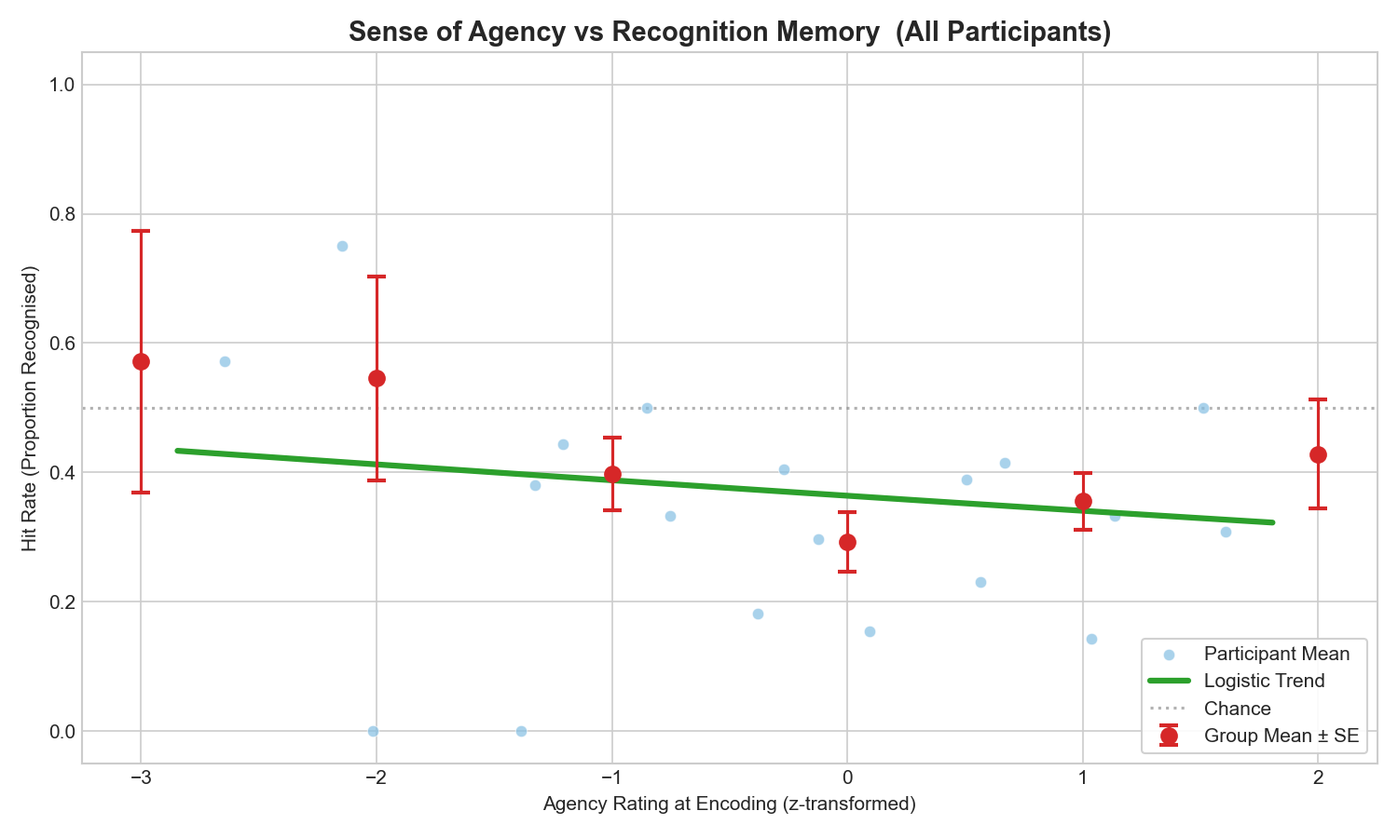
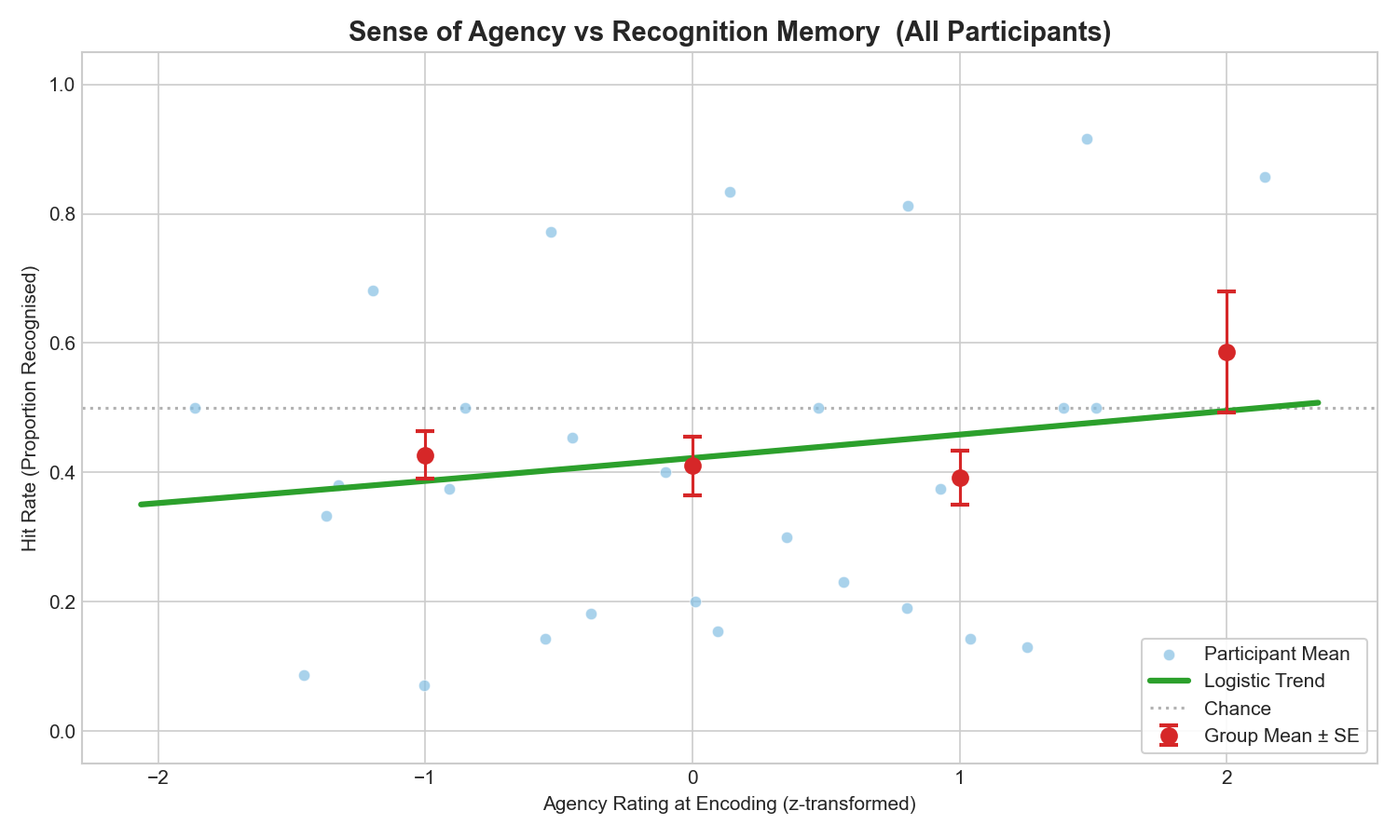
-

diff --git a/CDmem/analyses/behavioral/CDmem_analyses_final.py b/CDmem/analyses/behavioral/CDmem_analyses_final.py
@@ -46,7 +46,8 @@ def write_report(text):
     with open(REPORT_FILE, "a", encoding="utf-8") as f:
         f.write(text + "\n")
 
-PARTICIPANT_FILTER = [1,2,3,4]
+PARTICIPANT_FILTER = [4,5,6,7]
+# [7]
 TIMEOUT_THRESHOLD = 0.50
 ACCURACY_SD_THRESHOLD = 2.5
 RT_SD_MULTIPLIER = 3.0

diff --git a/CDmem/analyses/behavioral/CDmem_final_output/Comprehensive_Report.md b/CDmem/analyses/behavioral/CDmem_final_output/Comprehensive_Report.md
@@ -2,27 +2,25 @@
 
 ## Data Loading & Preprocessing
 
-[WARNING] Could not load CDmem_1_1.csv: Error tokenizing data. C error: Expected 1 fields in line 129, saw 6
-
 - Excluded for timeout: []
 - Excluded for accuracy outliers: []
 - Excluded for calibration failure: []
-- Total recognition trials excluded for RT outliers: 34
-- Final N participants: 3
+- Total recognition trials excluded for RT outliers: 41
+- Final N participants: 4
 
 ## Sanity Checks
 
 **Sanity Check: Agency Ratings (High vs Low)**
 We expect agency ratings to be significantly higher in the 'high' control condition.
-- High Mean (SD): 4.872 (0.187)
-- Low Mean (SD): 4.011 (1.435)
-- Result: *t*(2) = 0.997, *p* = 0.4238, Cohen's *d* = 0.842
+- High Mean (SD): 5.129 (0.611)
+- Low Mean (SD): 2.783 (0.627)
+- Result: *t*(3) = 3.980, *p* = 0.0284, Cohen's *d* = 3.790
 
 **Sanity Check: Detection Accuracy (High vs Low)**
 We expect detection accuracy to be significantly higher in the 'high' control condition.
-- High Mean (SD): 0.867 (0.120)
-- Low Mean (SD): 0.761 (0.228)
-- Result: *t*(2) = 0.984, *p* = 0.4289, Cohen's *d* = 0.580
+- High Mean (SD): 0.867 (0.131)
+- Low Mean (SD): 0.592 (0.091)
+- Result: *t*(3) = 7.318, *p* = 0.0053, Cohen's *d* = 2.446
 
 ## ANALYSES
 
@@ -30,28 +28,29 @@ We expect detection accuracy to be significantly higher in the 'high' control co
 
 **1A) Descriptive d' Summary (above-chance check)**
 **Participant-level d' values:**
-  - P2: d' = 0.882
-  - P3: d' = 1.027
   - P4: d' = 0.752
+  - P5: d' = 1.884
+  - P6: d' = 0.591
+  - P7: d' = 0.476
 
-- Mean d' = 0.887 (SD = 0.137)
+- Mean d' = 0.926 (SD = 0.649)
 - All above chance (d' > 0): True
 
-- One-sample t-test against chance: t(2) = 11.185, p = 0.0079
+- One-sample t-test against chance: t(3) = 2.853, p = 0.0649
 
 **1B) Binomial GLMM on OLD ITEMS ONLY: said_old ~ C(control_level) * C(item_type) + (1 | participant)**
 **Fixed Effects:**
 shape: (4, 8)
-┌─────────────────────────────┬───────────┬───────────┬───────────┬───────────┬────────────┬─────┬────────────┐
-│ term                        ┆ estimate  ┆ std_error ┆ conf_low  ┆ conf_high ┆ z_stat     ┆ df  ┆ p_value    │
-│ ---                         ┆ ---       ┆ ---       ┆ ---       ┆ ---       ┆ ---        ┆ --- ┆ ---        │
-│ str                         ┆ f64       ┆ f64       ┆ f64       ┆ f64       ┆ f64        ┆ f64 ┆ f64        │
-╞═════════════════════════════╪═══════════╪═══════════╪═══════════╪═══════════╪════════════╪═════╪════════════╡
-│ (Intercept)                 ┆ -0.871821 ┆ 0.084438  ┆ -1.037316 ┆ -0.706326 ┆ -10.325016 ┆ inf ┆ 5.4310e-25 │
-│ control_level_c             ┆ 0.208312  ┆ 0.168876  ┆ -0.122678 ┆ 0.539302  ┆ 1.233526   ┆ inf ┆ 0.217379   │
-│ item_type_c                 ┆ 0.627936  ┆ 0.168876  ┆ 0.296946  ┆ 0.958926  ┆ 3.718335   ┆ inf ┆ 0.000201   │
-│ control_level_c:item_type_c ┆ 0.192928  ┆ 0.337751  ┆ -0.469052 ┆ 0.854908  ┆ 0.571214   ┆ inf ┆ 0.567854   │
-└─────────────────────────────┴───────────┴───────────┴───────────┴───────────┴────────────┴─────┴────────────┘
+┌─────────────────────────────┬───────────┬───────────┬───────────┬───────────┬───────────┬─────┬──────────┐
+│ term                        ┆ estimate  ┆ std_error ┆ conf_low  ┆ conf_high ┆ z_stat    ┆ df  ┆ p_value  │
+│ ---                         ┆ ---       ┆ ---       ┆ ---       ┆ ---       ┆ ---       ┆ --- ┆ ---      │
+│ str                         ┆ f64       ┆ f64       ┆ f64       ┆ f64       ┆ f64       ┆ f64 ┆ f64      │
+╞═════════════════════════════╪═══════════╪═══════════╪═══════════╪═══════════╪═══════════╪═════╪══════════╡
+│ (Intercept)                 ┆ -0.538192 ┆ 0.483899  ┆ -1.486616 ┆ 0.410232  ┆ -1.112199 ┆ inf ┆ 0.266053 │
+│ control_level_c             ┆ -0.009408 ┆ 0.14886   ┆ -0.301168 ┆ 0.282351  ┆ -0.063202 ┆ inf ┆ 0.949605 │
+│ item_type_c                 ┆ 0.378286  ┆ 0.149221  ┆ 0.085817  ┆ 0.670754  ┆ 2.535062  ┆ inf ┆ 0.011243 │
+│ control_level_c:item_type_c ┆ 0.9472    ┆ 0.298873  ┆ 0.36142   ┆ 1.53298   ┆ 3.169239  ┆ inf ┆ 0.001528 │
+└─────────────────────────────┴───────────┴───────────┴───────────┴───────────┴───────────┴─────┴──────────┘
 
 **Random Effects Variance Components (ranef_var):**
 shape: (1, 5)
@@ -60,23 +59,24 @@ shape: (1, 5)
 │ ---         ┆ ---             ┆ ---      ┆ ---      ┆ ---       │
 │ str         ┆ str             ┆ f64      ┆ f64      ┆ f64       │
 ╞═════════════╪═════════════════╪══════════╪══════════╪═══════════╡
-│ participant ┆ sd__(Intercept) ┆ 0.0      ┆ null     ┆ null      │
+│ participant ┆ sd__(Intercept) ┆ 0.955854 ┆ null     ┆ null      │
 └─────────────┴─────────────────┴──────────┴──────────┴───────────┘
 
 **Random Effects by Participant (ranef):**
-shape: (3, 2)
+shape: (4, 2)
 ┌───────┬─────────────┐
 │ level ┆ (Intercept) │
 │ ---   ┆ ---         │
 │ str   ┆ f64         │
 ╞═══════╪═════════════╡
-│ 2     ┆ 0.0         │
-│ 3     ┆ 0.0         │
-│ 4     ┆ 0.0         │
+│ 4     ┆ -0.300555   │
+│ 5     ┆ 1.483119    │
+│ 6     ┆ -1.111681   │
+│ 7     ┆ -0.059488   │
 └───────┴─────────────┘
 
 > **APA 7 Reporting Example:**
-> A binomial generalized linear mixed model on target trials revealed that Control Level predicted memory hits, $\beta$ = 0.21, *SE* = 0.17, *z* = 1.23, *p* = 0.217.
+> A binomial generalized linear mixed model on target trials revealed that Control Level predicted memory hits, $\beta$ = -0.01, *SE* = 0.15, *z* = -0.06, *p* = 0.950.
 
 **1C) Gaussian LMM on OLD ITEMS ONLY: log_mem_rt ~ C(control_level) * C(item_type) + (1 | participant)**
 **Fixed Effects:**
@@ -86,10 +86,10 @@ shape: (4, 8)
 │ ---                         ┆ ---       ┆ ---       ┆ ---       ┆ ---       ┆ ---       ┆ ---        ┆ ---      │
 │ str                         ┆ f64       ┆ f64       ┆ f64       ┆ f64       ┆ f64       ┆ f64        ┆ f64      │
 ╞═════════════════════════════╪═══════════╪═══════════╪═══════════╪═══════════╪═══════════╪════════════╪══════════╡
-│ (Intercept)                 ┆ 0.166814  ┆ 0.033304  ┆ 0.027597  ┆ 0.30603   ┆ 5.00882   ┆ 2.06246    ┆ 0.035323 │
-│ control_level_c             ┆ -0.034804 ┆ 0.057815  ┆ -0.148792 ┆ 0.079184  ┆ -0.601991 ┆ 204.997054 ┆ 0.547845 │
-│ item_type_c                 ┆ -0.068005 ┆ 0.057948  ┆ -0.182267 ┆ 0.046258  ┆ -1.173547 ┆ 201.356053 ┆ 0.241963 │
-│ control_level_c:item_type_c ┆ 0.139039  ┆ 0.11565   ┆ -0.088978 ┆ 0.367056  ┆ 1.202234  ┆ 204.990255 ┆ 0.23066  │
+│ (Intercept)                 ┆ 0.094627  ┆ 0.16882   ┆ -0.445586 ┆ 0.634839  ┆ 0.560519  ┆ 2.97125    ┆ 0.614611 │
+│ control_level_c             ┆ -0.048337 ┆ 0.041254  ┆ -0.129468 ┆ 0.032794  ┆ -1.171698 ┆ 356.980703 ┆ 0.2421   │
+│ item_type_c                 ┆ -0.026122 ┆ 0.041241  ┆ -0.107228 ┆ 0.054985  ┆ -0.633383 ┆ 356.972041 ┆ 0.526889 │
+│ control_level_c:item_type_c ┆ -0.02503  ┆ 0.082579  ┆ -0.187433 ┆ 0.137373  ┆ -0.303097 ┆ 356.999931 ┆ 0.761992 │
 └─────────────────────────────┴───────────┴───────────┴───────────┴───────────┴───────────┴────────────┴──────────┘
 
 **Random Effects Variance Components (ranef_var):**
@@ -99,24 +99,25 @@ shape: (2, 5)
 │ ---         ┆ ---             ┆ ---      ┆ ---      ┆ ---       │
 │ str         ┆ str             ┆ f64      ┆ f64      ┆ f64       │
 ╞═════════════╪═════════════════╪══════════╪══════════╪═══════════╡
-│ participant ┆ sd__(Intercept) ┆ 0.028764 ┆ null     ┆ null      │
-│ Residual    ┆ sd__Observation ┆ 0.405687 ┆ null     ┆ null      │
+│ participant ┆ sd__(Intercept) ┆ 0.334315 ┆ null     ┆ null      │
+│ Residual    ┆ sd__Observation ┆ 0.388923 ┆ null     ┆ null      │
 └─────────────┴─────────────────┴──────────┴──────────┴───────────┘
 
 **Random Effects by Participant (ranef):**
-shape: (3, 2)
+shape: (4, 2)
 ┌───────┬─────────────┐
 │ level ┆ (Intercept) │
 │ ---   ┆ ---         │
 │ str   ┆ f64         │
 ╞═══════╪═════════════╡
-│ 2     ┆ -0.00016    │
-│ 3     ┆ -0.014421   │
-│ 4     ┆ 0.014581    │
+│ 4     ┆ 0.131435    │
+│ 5     ┆ -0.205247   │
+│ 6     ┆ 0.402098    │
+│ 7     ┆ -0.328286   │
 └───────┴─────────────┘
 
 > **APA 7 Reporting Example:**
-> A linear mixed model on log-transformed reaction times for correct old items showed an effect of Control Level, $\beta$ = -0.03, *SE* = 0.06, *t* = -0.60, *p* = 0.548.
+> A linear mixed model on log-transformed reaction times for correct old items showed an effect of Control Level, $\beta$ = -0.05, *SE* = 0.04, *t* = -1.17, *p* = 0.242.
 
 ### 2) Does this memory effect depend on the conscious detection of control?
 
@@ -130,50 +131,51 @@ shape: (4, 8)
 │ ---                             ┆ ---       ┆ ---       ┆ ---       ┆ ---       ┆ ---       ┆ --- ┆ ---      │
 │ str                             ┆ f64       ┆ f64       ┆ f64       ┆ f64       ┆ f64       ┆ f64 ┆ f64      │
 ╞═════════════════════════════════╪═══════════╪═══════════╪═══════════╪═══════════╪═══════════╪═════╪══════════╡
-│ (Intercept)                     ┆ -0.554613 ┆ 0.14966   ┆ -0.847942 ┆ -0.261284 ┆ -3.705812 ┆ inf ┆ 0.000211 │
-│ detection_accuracy_c            ┆ 0.053924  ┆ 0.299321  ┆ -0.532734 ┆ 0.640582  ┆ 0.180155  ┆ inf ┆ 0.857031 │
-│ control_level_c                 ┆ 0.63707   ┆ 0.299321  ┆ 0.050412  ┆ 1.223728  ┆ 2.128386  ┆ inf ┆ 0.033305 │
-│ detection_accuracy_c:control_l… ┆ -1.052161 ┆ 0.598642  ┆ -2.225477 ┆ 0.121155  ┆ -1.75758  ┆ inf ┆ 0.078819 │
+│ (Intercept)                     ┆ -0.489872 ┆ 0.52459   ┆ -1.51805  ┆ 0.538306  ┆ -0.933818 ┆ inf ┆ 0.350398 │
+│ detection_accuracy_c            ┆ 0.515036  ┆ 0.290274  ┆ -0.053891 ┆ 1.083964  ┆ 1.774309  ┆ inf ┆ 0.076012 │
+│ control_level_c                 ┆ 0.24906   ┆ 0.287043  ┆ -0.313534 ┆ 0.811654  ┆ 0.867675  ┆ inf ┆ 0.385572 │
+│ detection_accuracy_c:control_l… ┆ 0.344392  ┆ 0.57181   ┆ -0.776335 ┆ 1.465119  ┆ 0.602284  ┆ inf ┆ 0.546985 │
 └─────────────────────────────────┴───────────┴───────────┴───────────┴───────────┴───────────┴─────┴──────────┘
 
 **Random Effects Variance Components (ranef_var):**
 shape: (1, 5)
-┌─────────────┬─────────────────┬───────────┬──────────┬───────────┐
-│ group       ┆ term            ┆ estimate  ┆ conf_low ┆ conf_high │
-│ ---         ┆ ---             ┆ ---       ┆ ---      ┆ ---       │
-│ str         ┆ str             ┆ f64       ┆ f64      ┆ f64       │
-╞═════════════╪═════════════════╪═══════════╪══════════╪═══════════╡
-│ participant ┆ sd__(Intercept) ┆ 1.0326e-7 ┆ null     ┆ null      │
-└─────────────┴─────────────────┴───────────┴──────────┴───────────┘
+┌─────────────┬─────────────────┬──────────┬──────────┬───────────┐
+│ group       ┆ term            ┆ estimate ┆ conf_low ┆ conf_high │
+│ ---         ┆ ---             ┆ ---      ┆ ---      ┆ ---       │
+│ str         ┆ str             ┆ f64      ┆ f64      ┆ f64       │
+╞═════════════╪═════════════════╪══════════╪══════════╪═══════════╡
+│ participant ┆ sd__(Intercept) ┆ 1.009734 ┆ null     ┆ null      │
+└─────────────┴─────────────────┴──────────┴──────────┴───────────┘
 
 **Random Effects by Participant (ranef):**
-shape: (3, 2)
+shape: (4, 2)
 ┌───────┬─────────────┐
 │ level ┆ (Intercept) │
 │ ---   ┆ ---         │
 │ str   ┆ f64         │
 ╞═══════╪═════════════╡
-│ 2     ┆ -4.2414e-14 │
-│ 3     ┆ 7.2803e-14  │
-│ 4     ┆ -3.0389e-14 │
+│ 4     ┆ -0.349006   │
+│ 5     ┆ 1.587791    │
+│ 6     ┆ -1.078737   │
+│ 7     ┆ -0.147293   │
 └───────┴─────────────┘
 
 > **APA 7 Reporting Example:**
-> Detection accuracy significantly predicted subsequent recognition of controlled items, $\beta$ = 0.05, *SE* = 0.30, *z* = 0.18, *p* = 0.857.
+> Detection accuracy significantly predicted subsequent recognition of controlled items, $\beta$ = 0.52, *SE* = 0.29, *z* = 1.77, *p* = 0.076.
 
 **2E) Gaussian LMM on OLD CONTROLLED ITEMS ONLY: log_mem_rt ~ C(detection_accuracy) * C(control_level) + (1 | participant)**
 **Fixed Effects:**
 shape: (4, 8)
-┌─────────────────────────────────┬───────────┬───────────┬───────────┬───────────┬───────────┬───────┬──────────┐
-│ term                            ┆ estimate  ┆ std_error ┆ conf_low  ┆ conf_high ┆ t_stat    ┆ df    ┆ p_value  │
-│ ---                             ┆ ---       ┆ ---       ┆ ---       ┆ ---       ┆ ---       ┆ ---   ┆ ---      │
-│ str                             ┆ f64       ┆ f64       ┆ f64       ┆ f64       ┆ f64       ┆ f64   ┆ f64      │
-╞═════════════════════════════════╪═══════════╪═══════════╪═══════════╪═══════════╪═══════════╪═══════╪══════════╡
-│ (Intercept)                     ┆ 0.154931  ┆ 0.043572  ┆ 0.068689  ┆ 0.241173  ┆ 3.555717  ┆ 124.0 ┆ 0.000535 │
-│ detection_accuracy_c            ┆ -0.071962 ┆ 0.087145  ┆ -0.244445 ┆ 0.100522  ┆ -0.825773 ┆ 124.0 ┆ 0.410519 │
-│ control_level_c                 ┆ 0.044182  ┆ 0.087145  ┆ -0.128302 ┆ 0.216665  ┆ 0.506991  ┆ 124.0 ┆ 0.613061 │
-│ detection_accuracy_c:control_l… ┆ -0.019541 ┆ 0.174289  ┆ -0.364509 ┆ 0.325426  ┆ -0.112121 ┆ 124.0 ┆ 0.910909 │
-└─────────────────────────────────┴───────────┴───────────┴───────────┴───────────┴───────────┴───────┴──────────┘
+┌─────────────────────────────────┬───────────┬───────────┬───────────┬───────────┬───────────┬────────────┬──────────┐
+│ term                            ┆ estimate  ┆ std_error ┆ conf_low  ┆ conf_high ┆ t_stat    ┆ df         ┆ p_value  │
+│ ---                             ┆ ---       ┆ ---       ┆ ---       ┆ ---       ┆ ---       ┆ ---        ┆ ---      │
+│ str                             ┆ f64       ┆ f64       ┆ f64       ┆ f64       ┆ f64       ┆ f64        ┆ f64      │
+╞═════════════════════════════════╪═══════════╪═══════════╪═══════════╪═══════════╪═══════════╪════════════╪══════════╡
+│ (Intercept)                     ┆ 0.114227  ┆ 0.146766  ┆ -0.339436 ┆ 0.567891  ┆ 0.778297  ┆ 3.164115   ┆ 0.490436 │
+│ detection_accuracy_c            ┆ -0.073487 ┆ 0.081002  ┆ -0.233249 ┆ 0.086275  ┆ -0.907228 ┆ 192.992755 ┆ 0.365417 │
+│ control_level_c                 ┆ 0.063275  ┆ 0.079652  ┆ -0.093829 ┆ 0.220378  ┆ 0.794386  ┆ 192.486801 ┆ 0.427949 │
+│ detection_accuracy_c:control_l… ┆ -0.343829 ┆ 0.157903  ┆ -0.655275 ┆ -0.032384 ┆ -2.177467 ┆ 192.216268 ┆ 0.030664 │
+└─────────────────────────────────┴───────────┴───────────┴───────────┴───────────┴───────────┴────────────┴──────────┘
 
 **Random Effects Variance Components (ranef_var):**
 shape: (2, 5)
@@ -182,24 +184,25 @@ shape: (2, 5)
 │ ---         ┆ ---             ┆ ---      ┆ ---      ┆ ---       │
 │ str         ┆ str             ┆ f64      ┆ f64      ┆ f64       │
 ╞═════════════╪═════════════════╪══════════╪══════════╪═══════════╡
-│ participant ┆ sd__(Intercept) ┆ 0.0      ┆ null     ┆ null      │
-│ Residual    ┆ sd__Observation ┆ 0.370402 ┆ null     ┆ null      │
+│ participant ┆ sd__(Intercept) ┆ 0.281563 ┆ null     ┆ null      │
+│ Residual    ┆ sd__Observation ┆ 0.364925 ┆ null     ┆ null      │
 └─────────────┴─────────────────┴──────────┴──────────┴───────────┘
 
 **Random Effects by Participant (ranef):**
-shape: (3, 2)
+shape: (4, 2)
 ┌───────┬─────────────┐
 │ level ┆ (Intercept) │
 │ ---   ┆ ---         │
 │ str   ┆ f64         │
 ╞═══════╪═════════════╡
-│ 2     ┆ 0.0         │
-│ 3     ┆ 0.0         │
-│ 4     ┆ 0.0         │
+│ 4     ┆ 0.092789    │
+│ 5     ┆ -0.189612   │
+│ 6     ┆ 0.346962    │
+│ 7     ┆ -0.250139   │
 └───────┴─────────────┘
 
 > **APA 7 Reporting Example:**
-> Detection accuracy was associated with reaction times for correctly remembered controlled items, $\beta$ = -0.07, *SE* = 0.09, *t* = -0.83, *p* = 0.411.
+> Detection accuracy was associated with reaction times for correctly remembered controlled items, $\beta$ = -0.07, *SE* = 0.08, *t* = -0.91, *p* = 0.365.
 
 ### 3) Can we predict this effect from participants' subjective agency ratings?
 
@@ -208,16 +211,16 @@ shape: (3, 2)
 **3F) Binomial GLMM on OLD CONTROLLED ITEMS ONLY: said_old ~ C(agency_rating_ztransformed) * C(control_level) + (1 | participant)**
 **Fixed Effects:**
 shape: (4, 8)
-┌──────────────────────────┬───────────┬───────────┬───────────┬───────────┬───────────┬─────┬───────────┐
-│ term                     ┆ estimate  ┆ std_error ┆ conf_low  ┆ conf_high ┆ z_stat    ┆ df  ┆ p_value   │
-│ ---                      ┆ ---       ┆ ---       ┆ ---       ┆ ---       ┆ ---       ┆ --- ┆ ---       │
-│ str                      ┆ f64       ┆ f64       ┆ f64       ┆ f64       ┆ f64       ┆ f64 ┆ f64       │
-╞══════════════════════════╪═══════════╪═══════════╪═══════════╪═══════════╪═══════════╪═════╪═══════════╡
-│ (Intercept)              ┆ -0.581639 ┆ 0.116926  ┆ -0.81081  ┆ -0.352467 ┆ -4.974403 ┆ inf ┆ 6.5449e-7 │
-│ agency_z                 ┆ -0.155754 ┆ 0.116677  ┆ -0.384438 ┆ 0.072929  ┆ -1.334914 ┆ inf ┆ 0.181904  │
-│ control_level_c          ┆ 0.39084   ┆ 0.23304   ┆ -0.065911 ┆ 0.84759   ┆ 1.677134  ┆ inf ┆ 0.093516  │
-│ agency_z:control_level_c ┆ 0.147425  ┆ 0.233435  ┆ -0.3101   ┆ 0.604949  ┆ 0.631544  ┆ inf ┆ 0.527685  │
-└──────────────────────────┴───────────┴───────────┴───────────┴───────────┴───────────┴─────┴───────────┘
+┌──────────────────────────┬───────────┬───────────┬───────────┬───────────┬──────────┬─────┬──────────┐
+│ term                     ┆ estimate  ┆ std_error ┆ conf_low  ┆ conf_high ┆ z_stat   ┆ df  ┆ p_value  │
+│ ---                      ┆ ---       ┆ ---       ┆ ---       ┆ ---       ┆ ---      ┆ --- ┆ ---      │
+│ str                      ┆ f64       ┆ f64       ┆ f64       ┆ f64       ┆ f64      ┆ f64 ┆ f64      │
+╞══════════════════════════╪═══════════╪═══════════╪═══════════╪═══════════╪══════════╪═════╪══════════╡
+│ (Intercept)              ┆ -0.427443 ┆ 0.534906  ┆ -1.475839 ┆ 0.620953  ┆ -0.7991  ┆ inf ┆ 0.424232 │
+│ agency_z                 ┆ 0.035197  ┆ 0.137602  ┆ -0.234498 ┆ 0.304893  ┆ 0.25579  ┆ inf ┆ 0.798113 │
+│ control_level_c          ┆ 0.435348  ┆ 0.271959  ┆ -0.097682 ┆ 0.968379  ┆ 1.600784 ┆ inf ┆ 0.109425 │
+│ agency_z:control_level_c ┆ 0.27737   ┆ 0.286101  ┆ -0.283378 ┆ 0.838119  ┆ 0.969483 ┆ inf ┆ 0.332304 │
+└──────────────────────────┴───────────┴───────────┴───────────┴───────────┴──────────┴─────┴──────────┘
 
 **Random Effects Variance Components (ranef_var):**
 shape: (1, 5)
@@ -226,37 +229,38 @@ shape: (1, 5)
 │ ---         ┆ ---             ┆ ---      ┆ ---      ┆ ---       │
 │ str         ┆ str             ┆ f64      ┆ f64      ┆ f64       │
 ╞═════════════╪═════════════════╪══════════╪══════════╪═══════════╡
-│ participant ┆ sd__(Intercept) ┆ 0.015661 ┆ null     ┆ null      │
+│ participant ┆ sd__(Intercept) ┆ 1.034465 ┆ null     ┆ null      │
 └─────────────┴─────────────────┴──────────┴──────────┴───────────┘
 
 **Random Effects by Participant (ranef):**
-shape: (3, 2)
+shape: (4, 2)
 ┌───────┬─────────────┐
 │ level ┆ (Intercept) │
 │ ---   ┆ ---         │
 │ str   ┆ f64         │
 ╞═══════╪═════════════╡
-│ 2     ┆ -0.00055    │
-│ 3     ┆ 0.001751    │
-│ 4     ┆ -0.001201   │
+│ 4     ┆ -0.369267   │
+│ 5     ┆ 1.623177    │
+│ 6     ┆ -1.113813   │
+│ 7     ┆ -0.127168   │
 └───────┴─────────────┘
 
 > **APA 7 Reporting Example:**
-> Within-participant variation in subjective agency ratings significantly predicted recognition hits for controlled items, $\beta$ = -0.16, *SE* = 0.12, *z* = -1.33, *p* = 0.182.
+> Within-participant variation in subjective agency ratings significantly predicted recognition hits for controlled items, $\beta$ = 0.04, *SE* = 0.14, *z* = 0.26, *p* = 0.798.
 
 **3G) Gaussian LMM on OLD CONTROLLED ITEMS ONLY: log_mem_rt ~ C(agency_rating_ztransformed) * C(control_level) + (1 | participant)**
 **Fixed Effects:**
 shape: (4, 8)
-┌──────────────────────────┬───────────┬───────────┬───────────┬───────────┬───────────┬───────┬──────────┐
-│ term                     ┆ estimate  ┆ std_error ┆ conf_low  ┆ conf_high ┆ t_stat    ┆ df    ┆ p_value  │
-│ ---                      ┆ ---       ┆ ---       ┆ ---       ┆ ---       ┆ ---       ┆ ---   ┆ ---      │
-│ str                      ┆ f64       ┆ f64       ┆ f64       ┆ f64       ┆ f64       ┆ f64   ┆ f64      │
-╞══════════════════════════╪═══════════╪═══════════╪═══════════╪═══════════╪═══════════╪═══════╪══════════╡
-│ (Intercept)              ┆ 0.122866  ┆ 0.034434  ┆ 0.054711  ┆ 0.191021  ┆ 3.568126  ┆ 124.0 ┆ 0.000512 │
-│ agency_z                 ┆ -0.039579 ┆ 0.032271  ┆ -0.103452 ┆ 0.024294  ┆ -1.226472 ┆ 124.0 ┆ 0.222345 │
-│ control_level_c          ┆ 0.063576  ┆ 0.068869  ┆ -0.072734 ┆ 0.199887  ┆ 0.923155  ┆ 124.0 ┆ 0.357719 │
-│ agency_z:control_level_c ┆ 0.032129  ┆ 0.064542  ┆ -0.095617 ┆ 0.159875  ┆ 0.497803  ┆ 124.0 ┆ 0.619505 │
-└──────────────────────────┴───────────┴───────────┴───────────┴───────────┴───────────┴───────┴──────────┘
+┌──────────────────────────┬───────────┬───────────┬───────────┬───────────┬───────────┬────────────┬──────────┐
+│ term                     ┆ estimate  ┆ std_error ┆ conf_low  ┆ conf_high ┆ t_stat    ┆ df         ┆ p_value  │
+│ ---                      ┆ ---       ┆ ---       ┆ ---       ┆ ---       ┆ ---       ┆ ---        ┆ ---      │
+│ str                      ┆ f64       ┆ f64       ┆ f64       ┆ f64       ┆ f64       ┆ f64        ┆ f64      │
+╞══════════════════════════╪═══════════╪═══════════╪═══════════╪═══════════╪═══════════╪════════════╪══════════╡
+│ (Intercept)              ┆ 0.086922  ┆ 0.145314  ┆ -0.368994 ┆ 0.542838  ┆ 0.598168  ┆ 3.077729   ┆ 0.590892 │
+│ agency_z                 ┆ -0.01002  ┆ 0.036682  ┆ -0.082372 ┆ 0.062331  ┆ -0.273169 ┆ 192.315431 ┆ 0.785016 │
+│ control_level_c          ┆ -0.042893 ┆ 0.069099  ┆ -0.179183 ┆ 0.093398  ┆ -0.620738 ┆ 192.13009  ┆ 0.535508 │
+│ agency_z:control_level_c ┆ -0.053039 ┆ 0.075025  ┆ -0.201013 ┆ 0.094935  ┆ -0.70695  ┆ 192.942861 ┆ 0.48045  │
+└──────────────────────────┴───────────┴───────────┴───────────┴───────────┴───────────┴────────────┴──────────┘
 
 **Random Effects Variance Components (ranef_var):**
 shape: (2, 5)
@@ -265,22 +269,23 @@ shape: (2, 5)
 │ ---         ┆ ---             ┆ ---      ┆ ---      ┆ ---       │
 │ str         ┆ str             ┆ f64      ┆ f64      ┆ f64       │
 ╞═════════════╪═════════════════╪══════════╪══════════╪═══════════╡
-│ participant ┆ sd__(Intercept) ┆ 0.0      ┆ null     ┆ null      │
-│ Residual    ┆ sd__Observation ┆ 0.369194 ┆ null     ┆ null      │
+│ participant ┆ sd__(Intercept) ┆ 0.280615 ┆ null     ┆ null      │
+│ Residual    ┆ sd__Observation ┆ 0.36856  ┆ null     ┆ null      │
 └─────────────┴─────────────────┴──────────┴──────────┴───────────┘
 
 **Random Effects by Participant (ranef):**
-shape: (3, 2)
+shape: (4, 2)
 ┌───────┬─────────────┐
 │ level ┆ (Intercept) │
 │ ---   ┆ ---         │
 │ str   ┆ f64         │
 ╞═══════╪═════════════╡
-│ 2     ┆ 0.0         │
-│ 3     ┆ 0.0         │
-│ 4     ┆ 0.0         │
+│ 4     ┆ 0.103679    │
+│ 5     ┆ -0.199036   │
+│ 6     ┆ 0.339926    │
+│ 7     ┆ -0.244568   │
 └───────┴─────────────┘
 
 > **APA 7 Reporting Example:**
-> Subjective agency ratings predicted recognition reaction times for controlled items, $\beta$ = -0.04, *SE* = 0.03, *t* = -1.23, *p* = 0.222.
+> Subjective agency ratings predicted recognition reaction times for controlled items, $\beta$ = -0.01, *SE* = 0.04, *t* = -0.27, *p* = 0.785.
 
